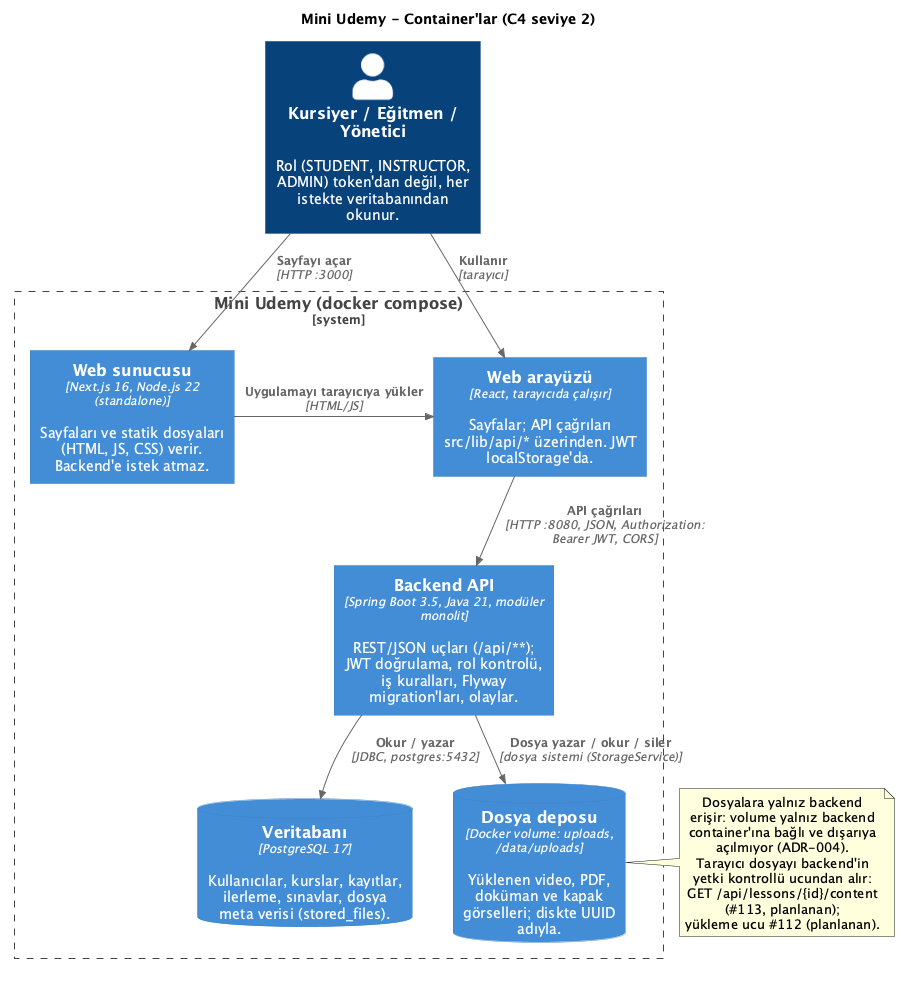
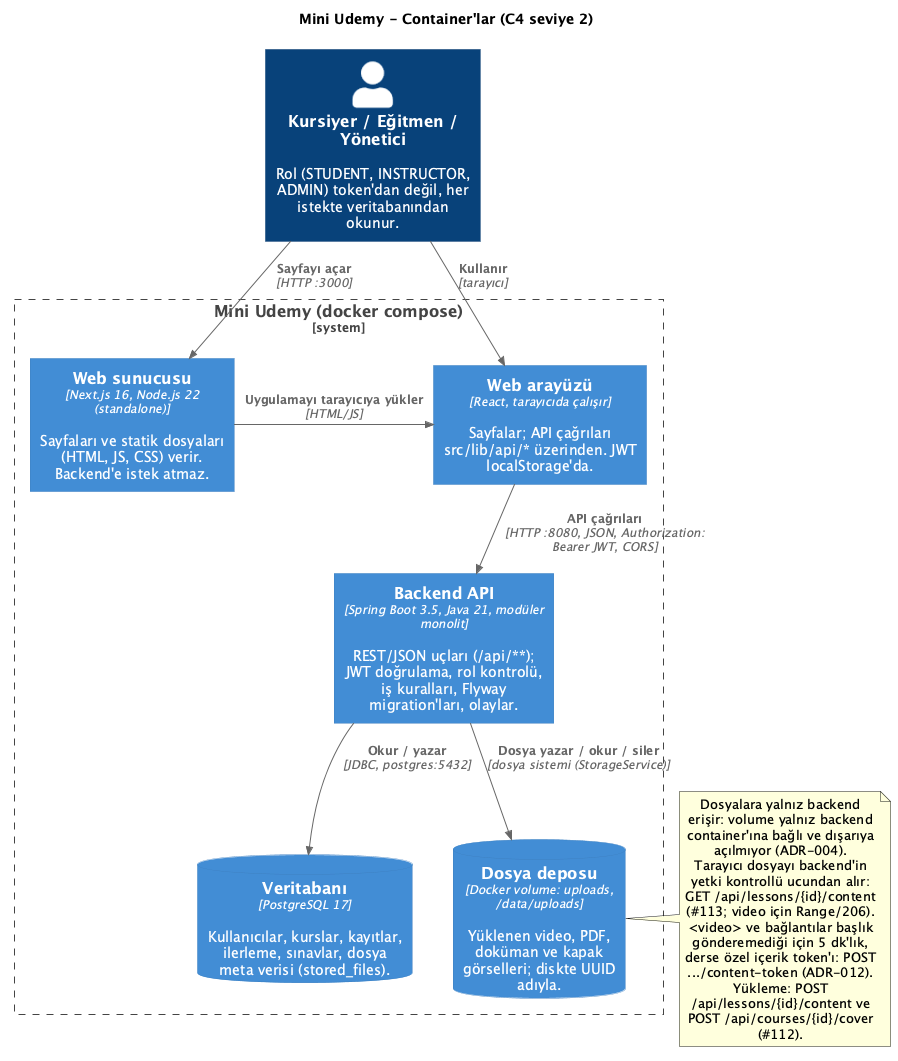
UML bileşen diyagramı ve olay görünümü (#91) (#298)
* docs(diagrams): UML bileşen diyagramı ve olay görünümü (#91)

- component.puml: modüller, kullanılan service'ler, uygulanan arayüzler,
  frontend API istemcisi
- component-events.puml: domain olayları (yayıncı → dinleyici)
- ComponentDiagramTest: diyagramlar ALLOWED tablosu ve dinleyicilerle aynı

Closes #91

* docs(c4): container notundaki içerik uçlarını güncelle (#91)

#112 ve #113 main'de: 'planlanan' notu kaldırıldı; içerik ucu, içerik
token'ı (ADR-012) ve yükleme uçları yazıldı.

* docs(diagram): bileşen diyagramına certificate → auth (#91)

#130 ile certificate, kursiyer adını auth/service/UserDirectoryService'ten
alıyor (ModuleArchitectureTest.ALLOWED). ComponentDiagramTest bu ok
olmadan kırmızıydı.

Refs #91

---------

Changed region(s): [[0.0312, 0.0, 0.9978, 1.0]]

diff --git a/backend/src/test/java/com/miniudemy/common/architecture/ComponentDiagramTest.java b/backend/src/test/java/com/miniudemy/common/architecture/ComponentDiagramTest.java
@@ -1,0 +1,124 @@
+package com.miniudemy.common.architecture;
+
+import static org.assertj.core.api.Assertions.assertThat;
+
+import java.io.IOException;
+import java.nio.file.Files;
+import java.nio.file.Path;
+import java.util.Set;
+import java.util.TreeSet;
+import java.util.regex.Matcher;
+import java.util.regex.Pattern;
+
+import org.junit.jupiter.api.BeforeAll;
+import org.junit.jupiter.api.Test;
+import org.springframework.transaction.event.TransactionalEventListener;
+
+import com.tngtech.archunit.core.domain.JavaClass;
+import com.tngtech.archunit.core.domain.JavaClasses;
+import com.tngtech.archunit.core.domain.JavaMethod;
+import com.tngtech.archunit.core.importer.ClassFileImporter;
+import com.tngtech.archunit.core.importer.ImportOption;
+
+/**
+ * UML bileşen diyagramı (#91) kodla tutarlı mı: {@code docs/diagrams/component.puml} (modüller ve service
+ * bağımlılıkları) ve {@code component-events.puml} (olaylar).
+ *
+ * <ul>
+ *   <li>Her modül ve {@code common} diyagramda bir bileşen.</li>
+ *   <li>Düz oklar ({@code a --> b}) modül bağımlılıklarıdır ve {@link ModuleArchitectureTest#ALLOWED} tablosunun
+ *       birebir aynısıdır; ArchUnit kodun bu tabloya uyduğunu ayrıca denetler.</li>
+ *   <li>Olay görünümündeki kesikli oklar ({@code a ..> b : Olay, Olay}): yayıncı modülün {@code domain}'indeki olayı alıcı
+ *       modülün {@code listener} paketindeki bir {@link TransactionalEventListener} metodu dinler. Diyagramdaki her
+ *       olay kodda dinleniyor, koddaki her dinleyici diyagramda var.</li>
+ * </ul>
+ *
+ * Diyagram değişip kod değişmezse (ya da tersi) bu test kırılır; ikisi aynı PR'da güncellenir.
+ */
+class ComponentDiagramTest {
+
+    private static final Path DIAGRAM = Path.of("..", "docs", "diagrams", "component.puml");
+    private static final Path EVENTS_DIAGRAM = Path.of("..", "docs", "diagrams", "component-events.puml");
+    private static final Pattern COMPONENT = Pattern.compile("^\\s*component\\s+\"[^\"]*\"\\s+as\\s+(\\w+)", Pattern.MULTILINE);
+    private static final Pattern DEPENDENCY = Pattern.compile("^\\s*(\\w+)\\s+-+>\\s+(\\w+)\\s*:", Pattern.MULTILINE);
+    private static final Pattern EVENT = Pattern.compile("^\\s*(\\w+)\\s+\\.+>\\s+(\\w+)\\s*:\\s*(.+)$", Pattern.MULTILINE);
+
+    private static String diagram;
+    private static String eventsDiagram;
+    private static JavaClasses classes;
+
+    @BeforeAll
+    static void load() throws IOException {
+        diagram = Files.readString(DIAGRAM);
+        eventsDiagram = Files.readString(EVENTS_DIAGRAM);
+        classes = new ClassFileImporter().withImportOption(ImportOption.Predefined.DO_NOT_INCLUDE_TESTS)
+                .importPackages("com.miniudemy");
+    }
+
+    @Test
+    void everyModuleAndCommonIsAComponent() {
+        Set<String> components = new TreeSet<>();
+        Matcher m = COMPONENT.matcher(diagram);
+        while (m.find()) {
+            components.add(m.group(1));
+        }
+        Set<String> expected = new TreeSet<>(ModuleArchitectureTest.ALLOWED.keySet());
+        expected.add("common");
+
+        assertThat(components).containsAll(expected);
+    }
+
+    @Test
+    void moduleDependencyArrows_areExactlyTheArchUnitTable() {
+        Set<String> drawn = new TreeSet<>();
+        Matcher m = DEPENDENCY.matcher(diagram);
+        while (m.find()) {
+            if (ModuleArchitectureTest.ALLOWED.containsKey(m.group(1))) {
+                drawn.add(m.group(1) + " -> " + m.group(2));
+            }
+        }
+        Set<String> allowed = new TreeSet<>();
+        ModuleArchitectureTest.ALLOWED.forEach((from, targets) -> targets.forEach(to -> allowed.add(from + " -> " + to)));
+
+        assertThat(drawn).as("diyagramdaki modül okları = ModuleArchitectureTest.ALLOWED").isEqualTo(allowed);
+    }
+
+    @Test
+    void eventArrows_areExactlyTheListenersInCode() {
+        Set<String> drawn = new TreeSet<>();
+        Matcher m = EVENT.matcher(eventsDiagram);
+        while (m.find()) {
+            if (!ModuleArchitectureTest.ALLOWED.containsKey(m.group(1))) {
+                continue; // frontend okları (sayfa → API istemcisi → REST) olay değildir
+            }
+            for (String event : m.group(3).split(",")) {
+                drawn.add(m.group(1) + "." + event.strip() + " -> " + m.group(2));
+            }
+        }
+        Set<String> listened = new TreeSet<>();
+        for (JavaClass listener : classes) {
+            if (!listener.getPackageName().endsWith(".listener")) {
+                continue;
+            }
+            String listenerModule = moduleOf(listener);
+            for (JavaMethod method : listener.getMethods()) {
+                if (!method.isAnnotatedWith(TransactionalEventListener.class) || method.getRawParameterTypes().size() != 1) {
+                    continue;
+                }
+                JavaClass event = method.getRawParameterTypes().get(0);
+                if (!moduleOf(event).equals(listenerModule)) {
+                    // Modül içi olay (ör. progress'in kendi LessonCompleted'ı) bileşen diyagramında ok değildir.
+                    listened.add(moduleOf(event) + "." + event.getSimpleName() + " -> " + listenerModule);
+                }
+            }
+        }
+
+        assertThat(listened).as("koddaki dinleyiciler").isNotEmpty();
+        assertThat(drawn).as("diyagramdaki olay okları = koddaki dinleyiciler").isEqualTo(listened);
+    }
+
+    /** {@code com.miniudemy.<modül>.…} → modül adı. */
+    private static String moduleOf(JavaClass javaClass) {
+        return javaClass.getPackageName().split("\\.")[2];
+    }
+}

diff --git a/docs/README.md b/docs/README.md
@@ -16,7 +16,7 @@ Kapsamın tek kaynağı hocanın proje tanım dokümanıdır (modüller A–L, s
 | UI taslakları | `diagrams/wireframes/` | Hafta 2 |
 | Sekans: kursa kayıt | [`diagrams/seq-enroll.puml`](diagrams/seq-enroll.puml) ([SVG](diagrams/seq-enroll.svg), [PNG](diagrams/seq-enroll.png)) | Hafta 2 |
 | Sınıf diyagramı | genel bakış (10 modül, domain + service): [`diagrams/class.puml`](diagrams/class.puml) ([SVG](diagrams/class.svg), [PNG](diagrams/class.png)); desenler: State [`class-state.puml`](diagrams/class-state.puml) ([SVG](diagrams/class-state.svg), [PNG](diagrams/class-state.png), [ADR-010](adr/0010-state-kurs-durumu.md)), Observer [`class-observer.puml`](diagrams/class-observer.puml) ([SVG](diagrams/class-observer.svg), [PNG](diagrams/class-observer.png), [ADR-009](adr/0009-observer-spring-events.md)), Strategy [`class-strategy.puml`](diagrams/class-strategy.puml) ([SVG](diagrams/class-strategy.svg), [PNG](diagrams/class-strategy.png), [ADR-008](adr/0008-strategy-puanlama.md)), Factory Method [`class-factory.puml`](diagrams/class-factory.puml) ([SVG](diagrams/class-factory.svg), [PNG](diagrams/class-factory.png), [ADR-011](adr/0011-factory-method-icerik-turleri.md)), DTO + Mapper [`class-dto-mapper.puml`](diagrams/class-dto-mapper.puml) ([SVG](diagrams/class-dto-mapper.svg), [PNG](diagrams/class-dto-mapper.png), [ADR-006](adr/0006-dto-mapper-mapstruct.md)) | Hafta 3 |
-| Bileşen diyagramı | `diagrams/component.*` | Hafta 3 |
+| Bileşen diyagramı (UML) | modüller ve service arayüzleri: [`diagrams/component.puml`](diagrams/component.puml) ([SVG](diagrams/component.svg), [PNG](diagrams/component.png)); olaylar: [`diagrams/component-events.puml`](diagrams/component-events.puml) ([SVG](diagrams/component-events.svg), [PNG](diagrams/component-events.png)). Kodla tutarlılığı `ComponentDiagramTest` denetler | Hafta 3 |
 | Test planı | [`test-plan.md`](test-plan.md) | Hafta 3 |
 | Sekans: sınav çözme | [`diagrams/seq-quiz.puml`](diagrams/seq-quiz.puml) ([SVG](diagrams/seq-quiz.svg), [PNG](diagrams/seq-quiz.png)) | Hafta 4 |
 | Sekans: sertifika oluşturma ve bildirim | [`diagrams/seq-certificate.puml`](diagrams/seq-certificate.puml) ([SVG](diagrams/seq-certificate.svg), [PNG](diagrams/seq-certificate.png)) | Hafta 4 |
@@ -33,3 +33,5 @@ PlantUML render'ı (Graphviz gerekmez; diyagramlar `!pragma layout smetana` kull
 ```bash
 java -Duser.language=en -Duser.country=US -jar plantuml.jar -tpng -tsvg docs/diagrams/c4-context.puml docs/diagrams/c4-container.puml docs/diagrams/deployment.puml
 ```
+
+Bileşen diyagramları smetana ile çizilir; aynı komutla `docs/diagrams/component.puml docs/diagrams/component-events.puml`. PNG ve SVG'yi ayrı komutla (`-tpng`, sonra `-tsvg`) üret: tek komutta ikisi verilince bu sürüm yalnız PNG yazdı (20.11.2026'da ölçüldü).

diff --git a/docs/architecture.md b/docs/architecture.md
@@ -208,6 +208,8 @@ flowchart TB
 
 ### Modül bağımlılıkları
 
+UML bileşen diyagramı (#91): [`diagrams/component.puml`](diagrams/component.puml) ([PNG](diagrams/component.png)) modülleri, kullandıkları service sınıflarını ve uyguladıkları arayüzleri; [`diagrams/component-events.puml`](diagrams/component-events.puml) ([PNG](diagrams/component-events.png)) olay akışını gösterir. İkisinin kodla tutarlılığını `ComponentDiagramTest` denetler: bağımlılık okları `ModuleArchitectureTest.ALLOWED`'ın, olay okları `listener` paketlerindeki `@TransactionalEventListener`'ların birebir aynısı olmalı. Tablo ya da bir dinleyici değişirse diyagram aynı PR'da güncellenir. Aşağıdaki Mermaid özeti aynı bilgiyi tek şekilde verir.
+
 Düz ok: service çağrısı. Kesikli ok: domain olayı (yayınlayan → dinleyen). Noktalı çizgi: `course`'un tanımladığı istatistik arayüzünü uygulama.
 
 ### Sertifika verme kuralı (#129)
